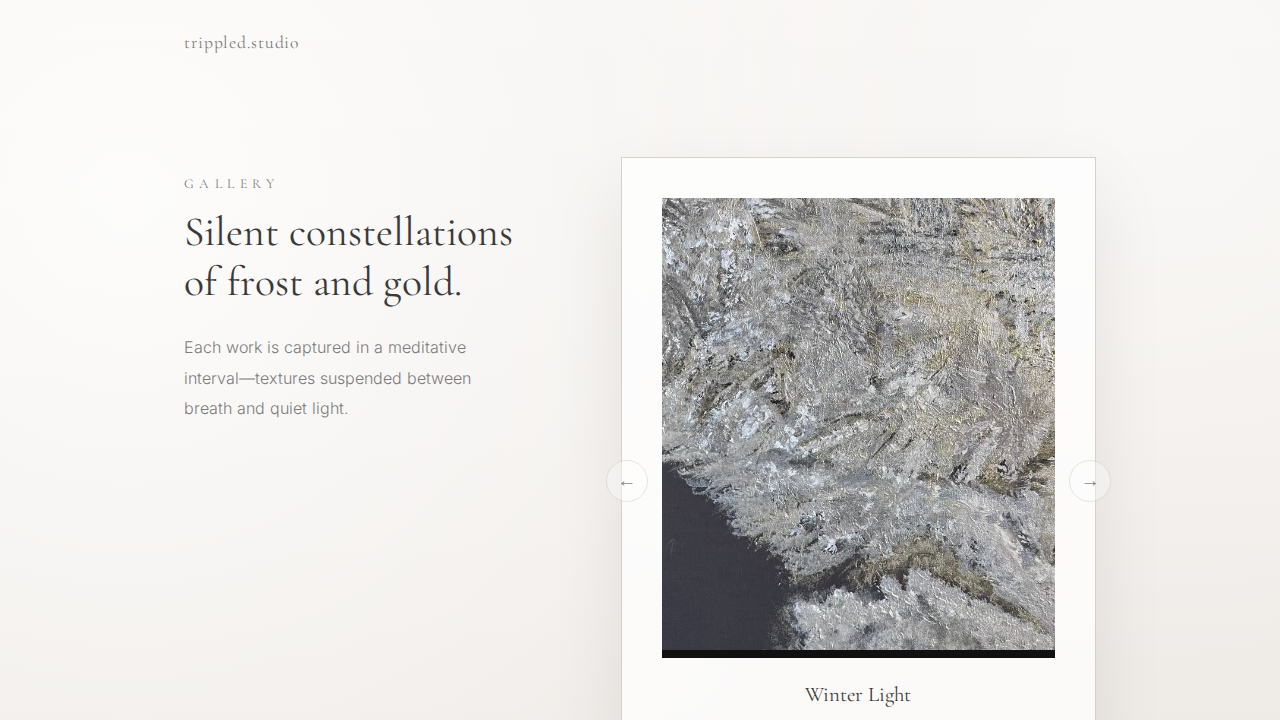
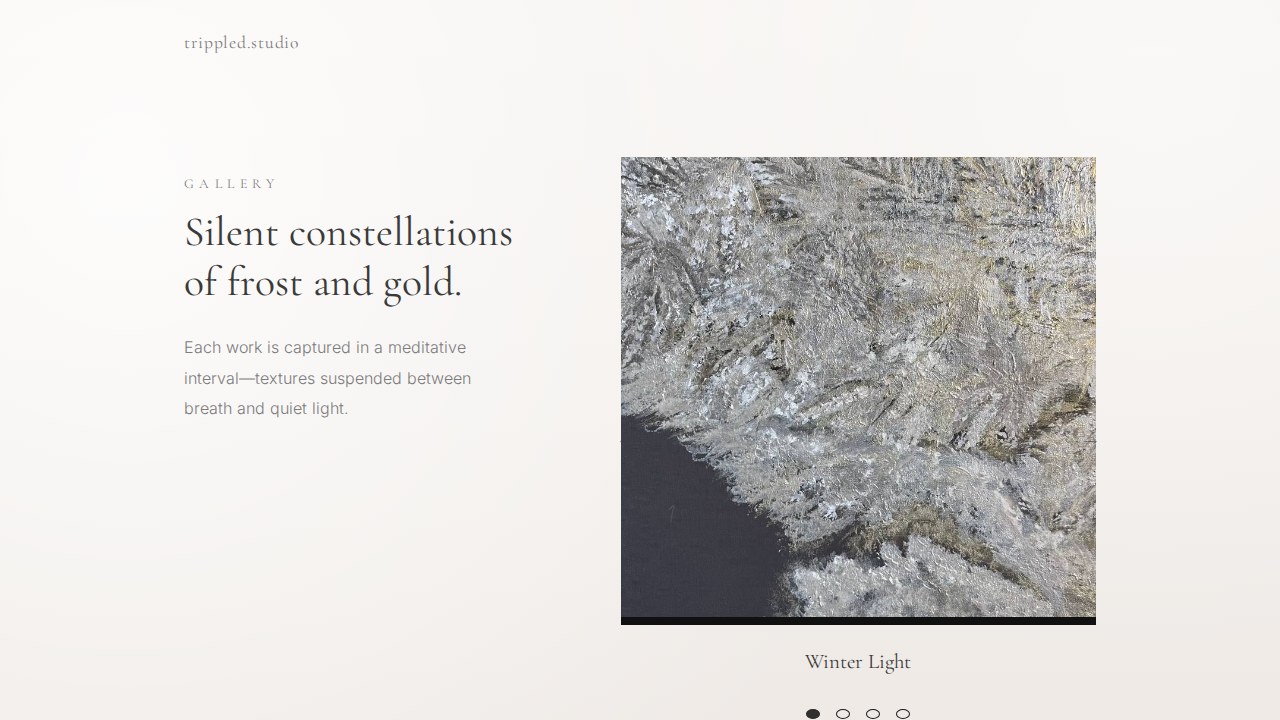
Revert "Balance carousel styling and reposition inquiry"
This reverts commit f0de40e13cac6b212ff1a480ba2952183414a262.

Changed region(s): [[0.4688, 0.2139, 0.875, 1.0]]

diff --git a/styles.css b/styles.css
@@ -157,10 +157,10 @@ nav a.active {
 
 .carousel {
   position: relative;
-  background: rgba(255,255,255,0.75);
-  border: 1px solid var(--border);
-  box-shadow: 0 30px 70px rgba(0,0,0,0.08);
-  padding: clamp(24px, 4vw, 40px);
+  background: transparent;
+  border: none;
+  box-shadow: none;
+  padding: 0;
 }
 
 .carousel .slides {
@@ -238,23 +238,16 @@ nav a.active {
   position: absolute;
   top: 50%;
   transform: translateY(-50%);
-  background: rgba(255,255,255,0.7);
-  border: 1px solid var(--border);
-  width: 42px;
-  height: 42px;
-  border-radius: 999px;
+  background: transparent;
+  border: none;
+  width: 44px;
+  height: 44px;
   display: grid;
   place-items: center;
-  font-size: 1.2rem;
+  font-size: 1.4rem;
   color: var(--accent);
-  opacity: 0.55;
-  transition: opacity 0.2s ease;
+  opacity: 0.45;
 }
-
-.carousel-control:hover {
-  opacity: 0.85;
-}
-
 
 .carousel-control.prev { left: -16px; }
 .carousel-control.next { right: -16px; }
@@ -263,7 +256,7 @@ nav a.active {
   display: flex;
   justify-content: center;
   gap: 16px;
-  margin-top: 36px;
+  margin-top: 32px;
 }
 
 .carousel-dots .dot {
